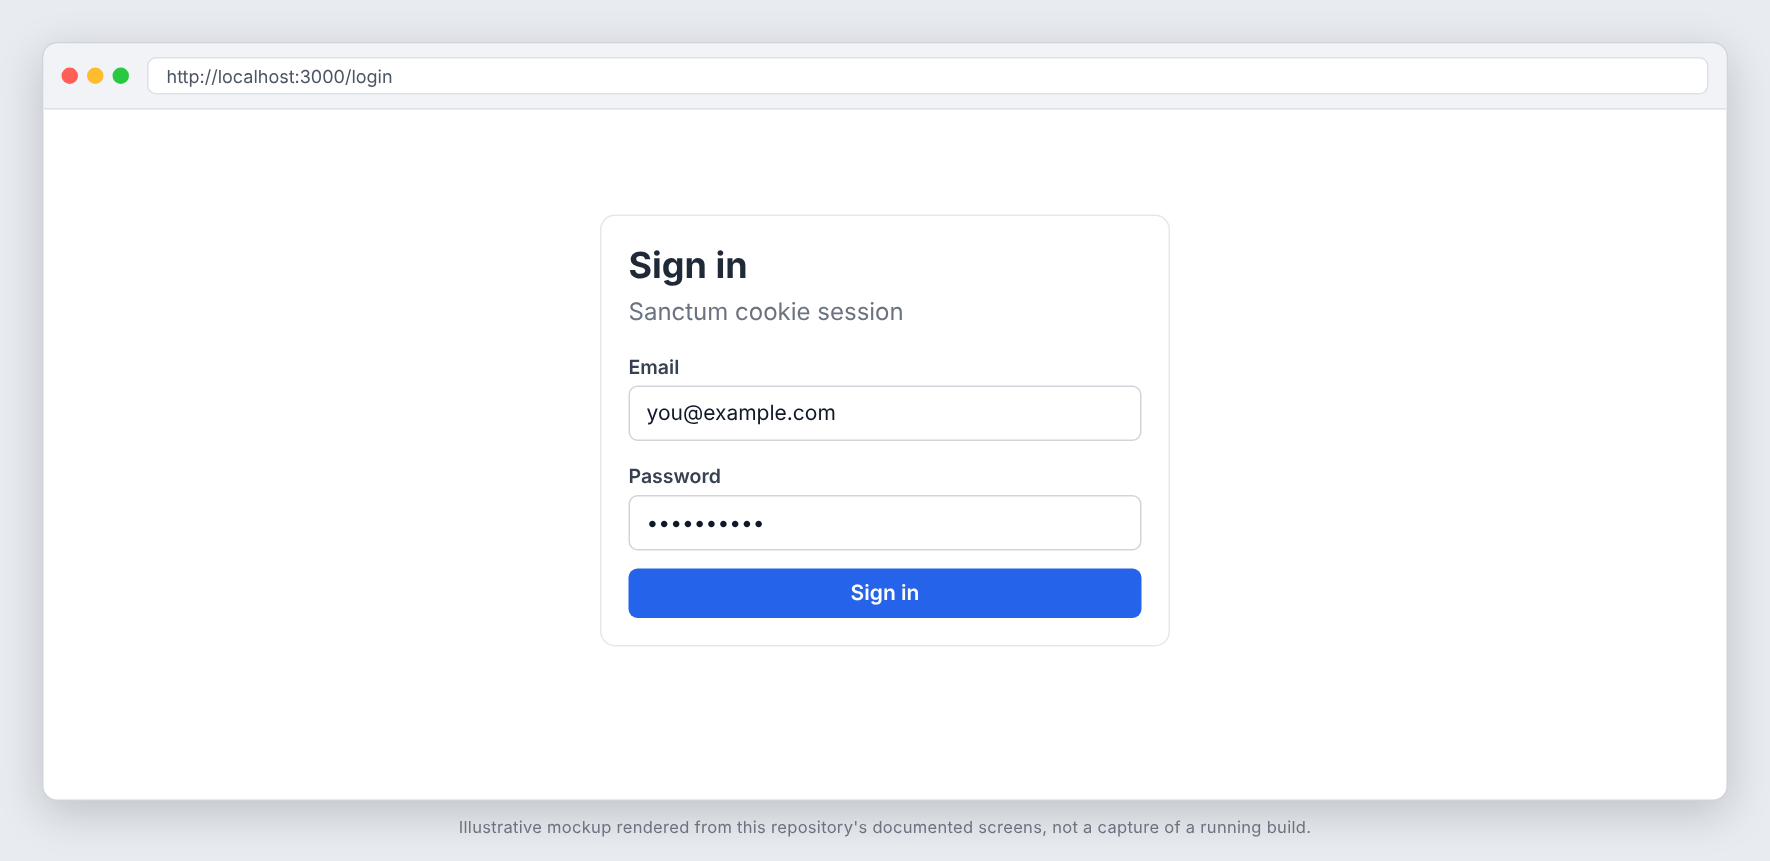
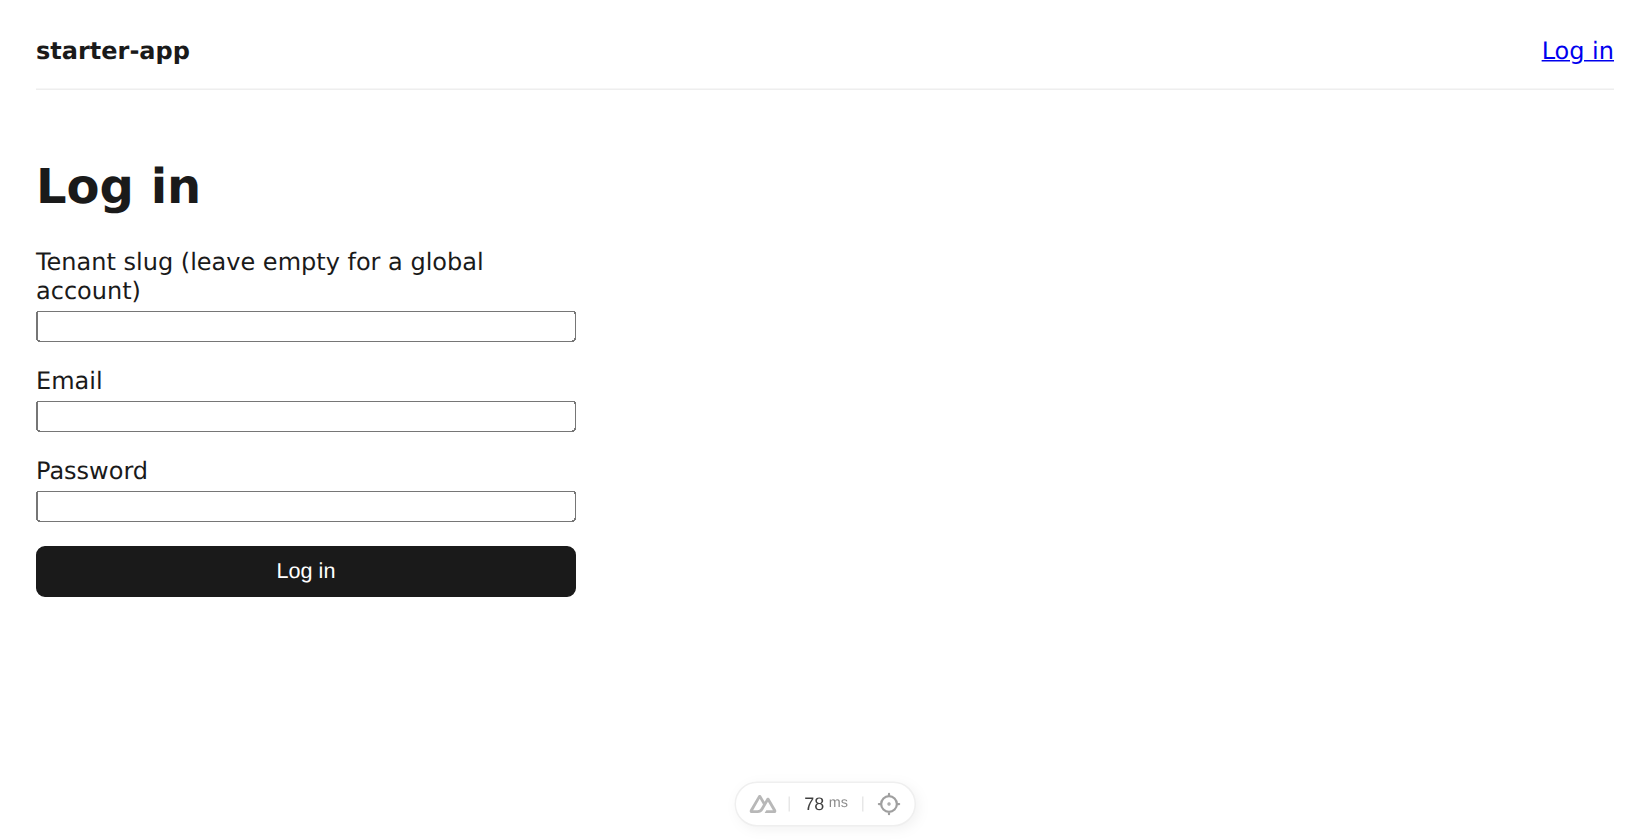
Replace the README mockups with real browser screenshots (#13)
* Update screenshots from CI

* Use the real screenshots captured by CI in the README

The manual Screenshots workflow ran and committed real captures; the README now shows them and says so, instead of the illustrative mockups.

Claude-Session: https://claude.ai/code/session_01MMnAbBEvfYn2oeVzGWoYsN

---------

diff --git a/README.md b/README.md
@@ -12,9 +12,11 @@ otherwise rebuild on day one.
 
 ![Login page](docs/screenshots/login.png)
 
-![Dashboard](docs/screenshots/dashboard.png)
+![Login with wrong credentials](docs/screenshots/login-error.png)
 
-_These images are illustrative mockups rendered from this repository's documented screens and API shapes, not captures of a running build. Regenerate or replace them with real captures once the app is running._
+![Dashboard after signing in as the seeded admin](docs/screenshots/dashboard.png)
+
+_Real captures: a Playwright spec drives the running app against the real API with seeded demo data, run by the manual `Screenshots` workflow (`.github/workflows/screenshots.yml`). They are taken against the dev server, so the Nuxt DevTools badge shows at the bottom._
 
 ## What is in it
 
